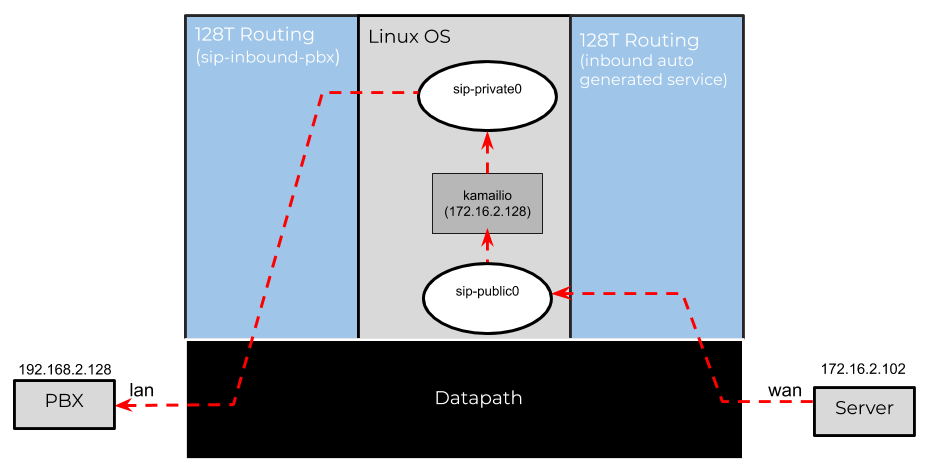
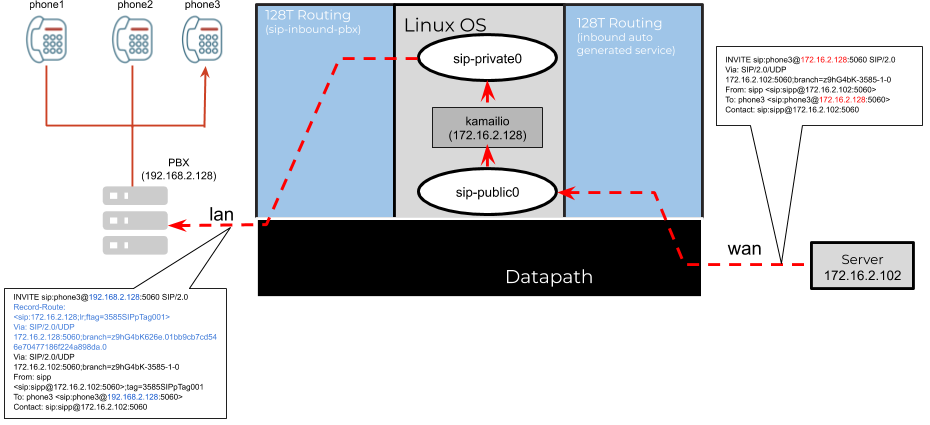
Address review comments
DOCS-110 #time 2h

diff --git a/docs/plugin_sip_alg.md b/docs/plugin_sip_alg.md
@@ -3,9 +3,9 @@ title: SIP ALG Plugin
 sidebar_label: SIP ALG
 ---
 
-The Session Initiation Protocol (SIP)[^1] is a signaling protocol used for initiating, maintaining, and terminating real-time sessions that include voice, video and messaging applications. SIP is a text based protocol and exchanges IP address information within its messages as means to establishing a signaling and media sessions between endpoints. When the SIP clients are behind NAT this poses a particular challenge since the addresses in the SIP messages for such clients will be private IPs which are not reachable beyond the NAT boundaries.
+The Session Initiation Protocol (SIP)[^1] is a signaling protocol used for initiating, maintaining, and terminating real-time sessions that include voice, video and messaging applications. SIP is a text based protocol and exchanges IP address information within its messages as a means to establish signaling and media sessions between endpoints. When the SIP clients are behind NAT this poses a particular challenge since the addresses in the SIP messages for such clients will be private IPs which are not reachable beyond the NAT boundaries.
 
-When 128T router is present at the edge of the NAT boundary, it is capable of performing a Application Layer Gateway (ALG) for SIP protocol by doing packet inspection and re-writing the private IP address information in the SIP messages for both SIP headers and SDP (Session Description Protocol)[^2]. This enables both signaling and media traffic to traverse the NAT and makes the communication possible between the client behind the NAT and the remote SIP endpoint(s). The SIP ALG function can be enabled by installing and configuring the `128T-sip-alg` plugin.
+When 128T router is present at the edge of the NAT boundary, it is capable of performing a Application Layer Gateway (ALG) function for SIP protocol by doing packet inspection and re-writing the private IP address information in the SIP messages for both SIP headers and Session Description Protocol (SDP)[^2]. This enables both signaling and media traffic to traverse the NAT and makes the communication possible between the client behind the NAT and the remote SIP endpoint(s). The SIP ALG function can be enabled by installing and configuring the `128T-sip-alg` plugin.
 
 :::note
 The instructions for installing and managing the plugin can be found [here](plugin_intro#installation-and-management).
@@ -17,10 +17,10 @@ The sip-alg configuration can be enabled on a router. In order to configure `sip
 
 * Static IP mappings
 * Services for making inbound and outbound calls
-* Additional changes to the SDP to enable SIP inter working
+* Additional changes to the SDP to enable SIP interworking
 
 :::important
-The 128T sip-alg function currently only supports a scenario whereby all the SIP endpoints on the private network communicate via a SIP enabled PBX device.
+The 128T sip-alg function only supports a scenario whereby all the SIP endpoints on the private network communicate via a SIP enabled PBX device.
 :::
 
 The following configuration shows an example of what the configuration for a single PBX device would look like:
@@ -82,20 +82,20 @@ exit
 ```
 
 :::note
-The `128T-sip-alg` plugin supports multiple branch PBXs by letting the user configure multiple `sip-alg` instances on the router. There is a limit of 10 sip-alg configuration per router.
+The `128T-sip-alg` plugin supports multiple branch PBXs by letting the user configure multiple `sip-alg` instances on the router. There is a limit of 10 sip-alg configurations per router.
 :::
 
 ### Proxy IP and IP Mappings
 
-The `proxy-ip` represents a non-private address for the branch PBX that the remote endpoint (such as a data center server) can use for all inbound and outbound calls. The `ip-mappings` in turn provide the translation to the private IP address that can be used to reach the branch PBX. In the above example, the mappings are a way to indicate that any inbound calls on the `172.16.2.128` from the remote endpoint will be routed to the `192.168.2.128` address. This information is also useful for [fixing](#sip-message-changes) all the relevant IP addresses in the SIP messages. For the outbound calls, the `proxy-ip` is used to replace the private branch PBX IP address with a non-private address that represents the branch from the perspective of the data center.
+The `proxy-ip` represents a non-private address for the branch PBX that the remote endpoint (such as a data center server) can use for all inbound and outbound calls. The `ip-mappings` on the other hand provide the translation to the private IP address that can be used to reach the branch PBX. In the above example, the mappings are a way to indicate that any inbound calls on the `172.16.2.128` from the remote endpoint will be routed to the `192.168.2.128` address. This information is also useful for [fixing](#sip-message-changes) all the relevant IP addresses in the SIP messages. For the outbound calls, the `proxy-ip` is used to replace the private branch PBX IP address with a non-private address that represents the branch from the perspective of the data center.
 
 ### Inbound and Outbound Services
 
-The `sip-alg` plugin operates on the concept of [SFC](plugin_intro.md#service-function-chaining) where all traffic is routed using KNIs to Linux. The 128T router uses `kamailio`[^3] to then [fix all SIP messages](#sip-message-changes) and perform additional routing to manage both inbound and outbound calls. For each of the `inbound` and `outbound` call the plugin requires two services - an `ingress service` to route the traffic to the KNI and an `egress service` to route the traffic to the other SIP endpoint. The user is responsible for configuring the `egress service` and corresponding routes. The plugin automatically generates the `ingress service` and associated routes using the egress service and plugin configuration.
+The `sip-alg` plugin operates on the concept of [SFC](plugin_intro.md#service-function-chaining) where all traffic is routed using KNIs to and from Linux. The 128T router uses `kamailio`[^3] to then [fix all SIP messages](#sip-message-changes) and perform additional routing to manage both inbound and outbound calls. For each of the `inbound` and `outbound` calls the plugin requires two services - an `ingress service` to route the traffic to the KNI and an `egress service` to route the traffic to the other SIP endpoint. The user is responsible for configuring the `egress service` and corresponding routes. The plugin automatically generates the `ingress service` and associated routes using the egress service and plugin configuration.
 
 #### Outbound Service and Config Auto Generation
 
-The `outbound` service is used for initial registration between the branch PBX and the SIP server as well as making all outbound calls to remote endpoints. A typical flow for such calls start from the private lan network, routed via the 128T sip-alg function and the fixed up SIP messages are then routed over the wan interface to the remote endpoint. The user is responsible for configuring the egress service and the associated routing policies such as SVR etc. Consider the following example:
+The `outbound` service is used for initial registration between the branch PBX and the SIP server as well as making all outbound calls to remote endpoints. A typical call flow originates from the private LAN network, routed via the 128T sip-alg function that transforms the SIP messages, which are then routed over the WAN interface to the remote endpoint. Consider the following example:
 
 ```config
 authority
@@ -123,7 +123,7 @@ authority
 exit
 ```
 
-The service `sip-outbound-dc1` captures all SIP udp traffic towards port 5060 originating from the `_internal_` tenant. This is a special tenant associated with the SFC KNIs. The `sip-service > outbound` for the sip-alg configuration refers to this user configured service in the above example. In this process, the plugin will inherit all the address and transport configuration from this service and combined with the defined access-policy on the plugin will generate the configuration for SIP traffic received on the lan tenant.
+The service `sip-outbound-dc1` captures all SIP UDP traffic towards port 5060 originating from the [`_internal_` tenant](bcp_tenants.mdx#the-internal-tenant). This is a special tenant associated with the SFC KNIs. The `sip-service > outbound` for the sip-alg configuration refers to this user configured service in the above example. In this process, the plugin will inherit all the address and transport configuration from this _service_, combined with the defined _access-policy_ on the plugin, will generate the configuration for SIP traffic received on the lan tenant.
 
 :::note
 If the egress service has no transport configured, the plugin assumes the default SIP port of `5060` for both TCP and UDP.
@@ -163,7 +163,7 @@ admin@node1.router1#
 
 #### Inbound Service and Config Auto Generation
 
-The `inbound` service is used for processing all incoming calls to the branch PBX from the remote server. A typical flow for such calls start from the public wan network, routed via the 128T sip-alg function and the fixed up SIP messages are then routed over the lan interface to the branch PBX. The user is responsible for configuring the ingress service and the associated service-routes. Consider the following example:
+The `inbound` service is used for processing all incoming calls to the branch PBX from the remote server. A typical call flow originates from the public WAN network, routed via the 128T sip-alg function that transforms the SIP messages, which are then routed over the LAN interface to the branch PBX. The user is responsible for configuring the ingress service and the associated service-routes. Consider the following example:
 
 ```config
 authority
@@ -192,7 +192,7 @@ authority
 exit
 ```
 
-The service `sip-inbound-pbx` captures all SIP udp traffic towards port 5060 originating from the `_internal_` tenant. This is a special tenant associated with the SFC KNIs. The `sip-service > inbound` for the sip-alg configuration refers to this user configured service in the above example. In this process, the plugin will inherit all the address and transport configuration from this service and combined with the defined access-policy on the plugin will generate the configuration for SIP traffic received on the `datacenter` tenant.
+The service `sip-inbound-pbx` captures all SIP UDP traffic towards port 5060 originating from the [`_internal_` tenant](bcp_tenants.mdx#the-internal-tenant). This is a special tenant associated with the SFC KNIs. The `sip-service > inbound` for the sip-alg configuration refers to this user configured service in the above example. In this process, the plugin will inherit all the address and transport configuration from this _service_, combined with the defined _access-policy_ on the plugin, will generate the configuration for SIP traffic received on the `datacenter` tenant.
 
 :::note
 If the ingress service has no transport configured, the plugin assumes the default SIP port of `5060` for both TCP and UDP.
@@ -235,7 +235,7 @@ Some of the SDP options can include private IP addresses and pose additional cha
 
 ## SIP Message Changes
 
-The 128T `sip-alg` functionality is completely stateless and works by applying the NAT rules to every SIP message sent and received. The SIP stack, however, is aware of directionality and uses this information to fix the messages with the correct set of IP addresses.
+The 128T `sip-alg` functionality is completely stateless and works by applying NAT rules to every SIP message sent and received. The SIP stack, however, is aware of directionality and uses this information to fix the messages with the correct set of IP addresses.
 
 #### Outbound Call Changes
 
@@ -302,10 +302,10 @@ A few important aspects of the changes made to the original SIP INVITE are as fo
 Consider an inbound SIP call received from the server `172.16.2.102` on the `proxy-ip` representing the PBX.
 
 ```
-INVITE sip:service@172.16.2.128:5060 SIP/2.0
+INVITE sip:phone3@172.16.2.128:5060 SIP/2.0
 Via: SIP/2.0/UDP 172.16.2.102:5060;branch=z9hG4bK-3585-1-0
 From: sipp <sip:sipp@172.16.2.102:5060>;tag=3585SIPpTag001
-To: service <sip:service@172.16.2.128:5060>
+To: phone3 <sip:phone3@172.16.2.128:5060>
 Call-ID: 1-3585@172.16.2.102
 CSeq: 1 INVITE
 Contact: sip:sipp@172.16.2.102:5060
@@ -326,12 +326,12 @@ a=rtpmap:0 PCMU/8000
 The above message is sent to `kamailio` which in turn converts the public IPs to private addresses and forwards the message to the branch PBX. The new message will look as follows:
 
 ```
-INVITE sip:service@192.168.2.128:5060 SIP/2.0
+INVITE sip:phone3@192.168.2.128:5060 SIP/2.0
 Record-Route: <sip:172.16.2.128;lr;ftag=3585SIPpTag001>
 Via: SIP/2.0/UDP 172.16.2.128:5060;branch=z9hG4bK626e.01bb9cb7cd546e70477186f224a898da.0
 Via: SIP/2.0/UDP 172.16.2.102:5060;branch=z9hG4bK-3585-1-0
 From: sipp <sip:sipp@172.16.2.102:5060>;tag=3585SIPpTag001
-To: service <sip:service@192.168.2.128:5060>
+To: phone3 <sip:phone3@192.168.2.128:5060>
 Call-ID: 1-3585@172.16.2.102
 CSeq: 1 INVITE
 Contact: sip:sipp@172.16.2.102:5060
@@ -405,10 +405,13 @@ Hint: Some lines were ellipsized, use -l to show in full.
 
 The `kamailio` configuration can be found under `/etc/kamailio/kamailio.PBX.cfg` and should reflect the ip-mappings and other configuration from the plugin configuration.
 
+:::note
+Users should not make any manual changes to the `kamailio` config as it would get overwritten from the 128T conductor.
+:::
 
 ### Inspecting the sip-alg Namespace
 
-All of the `sip-alg` function including `kamailio` operate from within a network namespace. Some of the common commands and the expected outputs are shown below
+All of the `sip-alg` function, including `kamailio`, operate from within a network namespace. Some of the common commands and the expected outputs are shown below.
 
 The following example shows the KNI configuration and the default route on a running system
 ```
@@ -449,7 +452,8 @@ tcp        0      0 169.254.129.22:5060     0.0.0.0:*               LISTEN      
 tcp        0      0 169.254.129.18:5060     0.0.0.0:*               LISTEN      19098/kamailio
 ```
 
-Finally, the namespace is configured with a set of `iptables` rules to enable the static mapping from public to private. A typical set of rules look like below:
+Finally, the namespace is configured with a set of `iptables` rules to enable the static mapping from public to private. A typical set of rules can be seen below.
+
 ```
 # ip netns exec PBX iptables -t nat -nvL
 Chain PREROUTING (policy ACCEPT 0 packets, 0 bytes)
